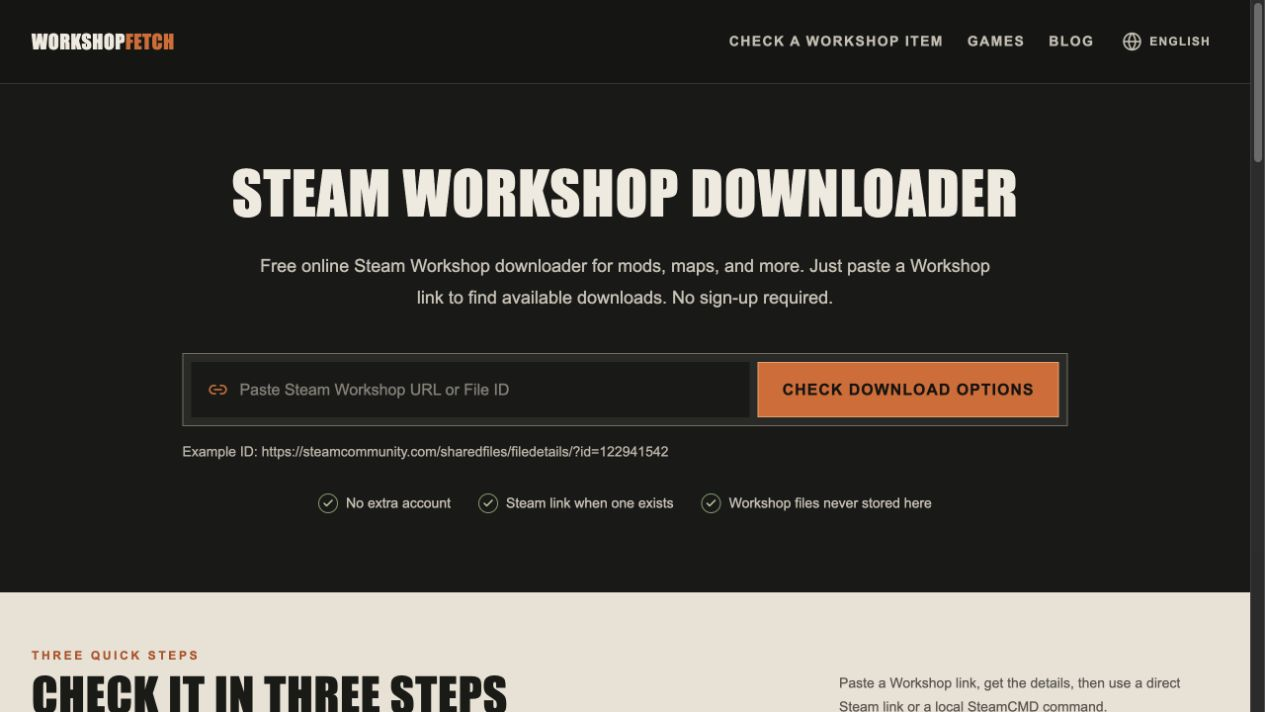
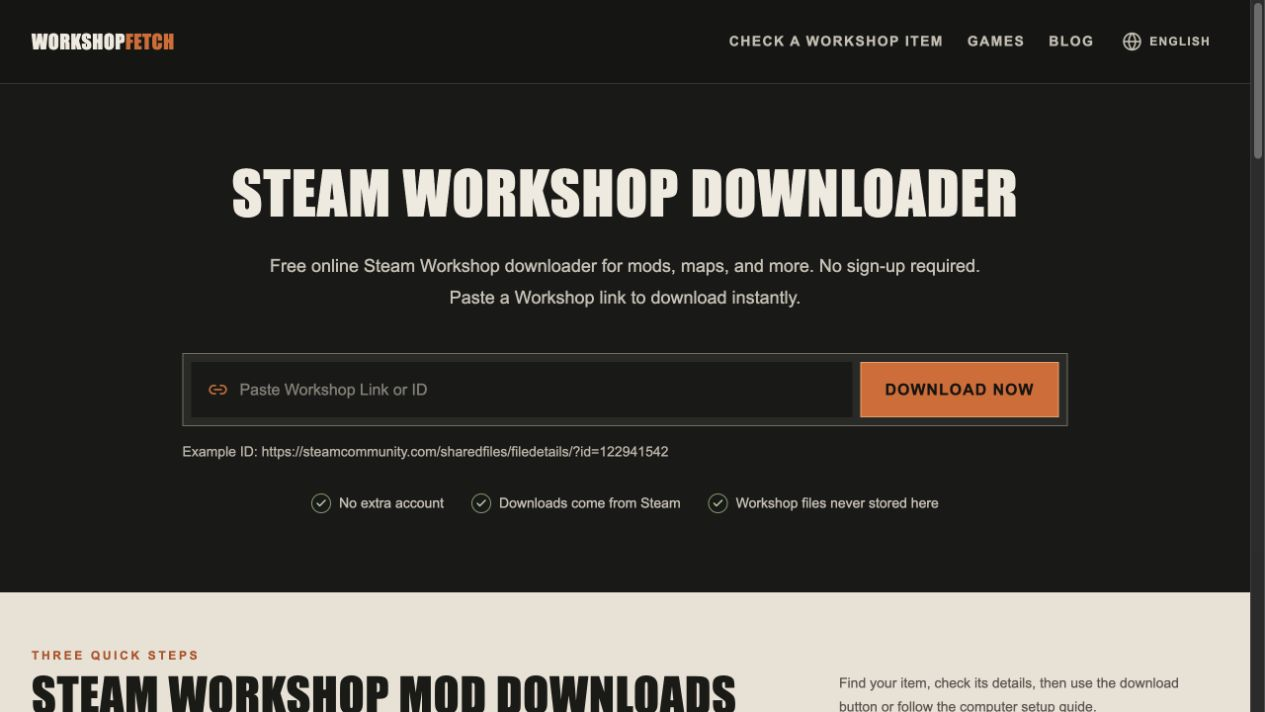
docs: sync public overview with updated download flow

diff --git a/README.zh-CN.md b/README.zh-CN.md
@@ -6,9 +6,9 @@
 
 # WorkshopFetch
 
-**查找 Steam 创意工坊 Mod 和地图的下载方式。**
+**免费在线 Steam 创意工坊下载工具。**
 
-粘贴想下载的 Mod 或地图链接，查看可用的下载方式。能直接下载时，页面会显示下载按钮；没有下载按钮时，可以跟着教程在自己的电脑上尝试下载。
+无需注册。粘贴 Mod、地图等创意工坊内容的链接或 ID，查看可用的下载方式。
 
 [![官网](https://img.shields.io/badge/官网-workshopfetch.com-e36b25?style=flat-square)](https://workshopfetch.com/zh-cn)
 [![使用方法](https://img.shields.io/badge/指南-使用方法-171714?style=flat-square)](https://workshopfetch.com/zh-cn/how-to-use)
@@ -22,23 +22,21 @@
 
 [![WorkshopFetch 中文首页：输入创意工坊链接或 ID，查询下载方式](assets/home-zh-cn.jpg)](https://workshopfetch.com/zh-cn)
 
-WorkshopFetch 可以直接在浏览器里免费使用，不用注册账号。目前每次查询一个 Mod、地图或其他创意工坊作品；如果你打开的是合集，请先进入想下载的单个作品页面。
+WorkshopFetch 可以直接在浏览器里使用，每次查询一个 Mod、地图或其他创意工坊作品。如果你打开的是合集，请先进入想下载的单个作品页面。
 
-## 怎么用？
+## 创意工坊 Mod 下载方法
 
 1. 在 Steam 创意工坊找到想下载的 Mod 或地图，复制页面链接。也可以直接使用链接里的数字 ID（Published File ID）。
-2. [打开 WorkshopFetch](https://workshopfetch.com/zh-cn)，粘贴链接或 ID，点击「查询下载方式」。先核对标题和所属游戏，确认没找错。
-3. 查看查询结果。有下载按钮就点击下载；没有按钮，就打开页面上的教程，按步骤尝试另一种下载方法。
+2. [打开 WorkshopFetch](https://workshopfetch.com/zh-cn)，粘贴链接或 ID，点击「立即下载」。在结果页核对标题和所属游戏，确认没找错。
+3. 结果页有「下载文件」按钮时，点击下载。没有按钮时，可以按[使用教程](https://workshopfetch.com/zh-cn/how-to-use)在自己的电脑上尝试另一种下载方法。
 
-另一种方法需要用到 Steam 官方提供的工具 **SteamCMD**。你需要把它安装到自己的电脑上，再按[教程](https://workshopfetch.com/zh-cn/blog/steamcmd-workshop)输入命令。WorkshopFetch 会准备好这项作品对应的命令，但不会替你运行。
+相关教程：[在哪里找作品 ID](https://workshopfetch.com/zh-cn/blog/find-steam-workshop-id) · [下载卡住了怎么办](https://workshopfetch.com/zh-cn/blog/steam-workshop-download-stuck)
 
-相关教程：[完整使用步骤](https://workshopfetch.com/zh-cn/how-to-use) · [在哪里找作品 ID](https://workshopfetch.com/zh-cn/blog/find-steam-workshop-id) · [下载卡住了怎么办](https://workshopfetch.com/zh-cn/blog/steam-workshop-download-stuck)
-
-## 常见问题
+## 创意工坊下载常见问题
 
 ### 为什么有些 Mod 还是下载不了？
 
-Steam 没有为每个作品返回可用的下载地址。用 SteamCMD 尝试下载时，也可能需要拥有游戏本体，或登录有访问权限的 Steam 账号。WorkshopFetch 无法绕过这些要求，也不能下载私有作品，因此按教程操作也不一定能下载成功。
+Steam 没有为每个作品返回可用的下载地址。其他下载方法也可能要求你拥有游戏本体，或登录有访问权限的 Steam 账号。WorkshopFetch 无法绕过这些要求，也不能下载私有作品，因此按教程操作也不一定能下载成功。
 
 ### 下载的文件来自哪里？
 

diff --git a/README.md b/README.md
@@ -6,9 +6,9 @@
 
 # WorkshopFetch
 
-**Find download options for Steam Workshop mods and maps.**
+**Free online Steam Workshop downloader for mods, maps, and more.**
 
-Paste a mod or map's Workshop link to see the available download options. You'll see a download button when Steam provides a file link. Otherwise, you'll get a guide to another method you can try on your computer.
+No sign-up required. Paste a Workshop link or item ID to find available downloads.
 
 [![Website](https://img.shields.io/badge/Website-workshopfetch.com-e36b25?style=flat-square)](https://workshopfetch.com/)
 [![Guide](https://img.shields.io/badge/Guide-How_to_use-171714?style=flat-square)](https://workshopfetch.com/how-to-use)
@@ -22,23 +22,21 @@ English · [简体中文](README.zh-CN.md)
 
 [![WorkshopFetch homepage: paste a Steam Workshop URL or File ID to check download options](assets/home-en.jpg)](https://workshopfetch.com/)
 
-WorkshopFetch is free to use in your browser, with no sign-up. It checks one public Workshop item at a time. For collections, open the individual mod or map you want to check.
+WorkshopFetch works in your browser and checks one public Workshop item at a time. For collections, open the individual mod or map you want to download.
 
-## How to use it
+## Steam Workshop Mod Downloads
 
 1. Copy a mod or map's URL from Steam Workshop. You can also use its numeric ID (Published File ID).
-2. [Open WorkshopFetch](https://workshopfetch.com/), paste the link or ID, and click **Check Download Options**. Check the title and game to make sure it's the right item.
-3. Check the result. If there's a download button, click it to download the file. If not, open the guide on the result page to try another download method.
+2. [Open WorkshopFetch](https://workshopfetch.com/), paste the link or ID, and click **Download Now**. On the result page, check the title and game to make sure it's the right item.
+3. Use **Download file** if the button appears. If it doesn't, follow [How to Use](https://workshopfetch.com/how-to-use) for another method you can try on your computer.
 
-The other method uses **SteamCMD**, an official Steam tool. You'll need to install it on your computer and enter a command by following the [guide](https://workshopfetch.com/blog/steamcmd-workshop). WorkshopFetch prepares the command for your item, but doesn't run it for you.
+Need help? [Find an item's ID](https://workshopfetch.com/blog/find-steam-workshop-id) · [Troubleshoot downloads](https://workshopfetch.com/steam-workshop-download-not-working)
 
-Need help? [Full walkthrough](https://workshopfetch.com/how-to-use) · [Find an item's ID](https://workshopfetch.com/blog/find-steam-workshop-id) · [Troubleshoot downloads](https://workshopfetch.com/steam-workshop-download-not-working)
-
-## Common questions
+## Steam Workshop Download FAQ
 
 ### Why can't I download some items?
 
-Steam doesn't make every item available to download in a browser. Downloading with SteamCMD may also require you to own the game or sign in with an account that has access. WorkshopFetch can't bypass those requirements or make private content available, so following the guide doesn't guarantee a successful download.
+Steam doesn't make every item available to download in a browser. Other download methods may require you to own the game or sign in with a Steam account that has access. WorkshopFetch can't bypass those requirements or make private content available, so following the guide doesn't guarantee a successful download.
 
 ### Where do the files come from?
 
